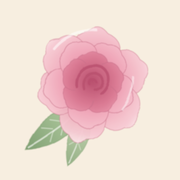
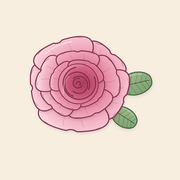
Tallennuspalkki muokkaukseen, reseptin kuvanluku ja uusi ruusukuvake
Claude-Session: https://claude.ai/code/session_01HmwA5S6W5nbvQAGnwA3i5H

Changed region(s): [[0.1389, 0.1389, 0.8611, 0.9167]]

diff --git a/index.html b/index.html
@@ -333,6 +333,8 @@ textarea.let:focus{background:#FFFDF9;border-color:#E3B7C4;box-shadow:none}
 .gear svg{width:21px;height:21px}
 .gear[aria-current="page"]{color:var(--rose-ink);background:var(--rose-soft)}
 .backrow{display:flex}
+.edbar{position:sticky;top:calc(env(safe-area-inset-top,0px) + 8px);z-index:20;display:flex;align-items:center;gap:8px;padding:8px 8px 8px 14px;border:1px solid var(--line);border-radius:14px;background:rgba(255,250,242,.94);-webkit-backdrop-filter:blur(8px);backdrop-filter:blur(8px);box-shadow:0 4px 14px rgba(140,100,70,.12)}
+.edbar .grow{font-family:var(--f-display);font-weight:700;font-size:1.2rem;color:var(--rose-ink);overflow:hidden;text-overflow:ellipsis;white-space:nowrap}
 /* Historia Tarkista-sivulla */
 .hfold .foldh{padding:4px 2px}
 .hfold .htitle{font-family:var(--f-display);font-size:1.45rem;font-weight:700;color:var(--blue);flex:0 0 auto}
@@ -2428,6 +2430,45 @@ Täytä kakku mansikoilla ja kermalla.`;
       renderCheck();
     }
   }
+  /* Reseptin kuva tekstiksi: rivit säilytetään, katkenneet lauseet yhdistetään. Useampi kuva lisätään peräkkäin. */
+  function cleanRecipeOcr(t) {
+    const ls = String(t || '').replace(/\r/g, '').replace(/-\n(?=[a-zäöå])/g, '').split('\n').map(l => l.replace(/[ \t]+/g, ' ').trim()).filter(Boolean);
+    const out = [];
+    ls.forEach(l => {
+      const prev = out[out.length - 1];
+      if (prev && /^[a-zäöå(]/.test(l) && prev.length > 25 && !/[.:!?]$/.test(prev) && !/^[\d½¼¾⅓-]/.test(prev)) out[out.length - 1] = prev + ' ' + l;
+      else out.push(l);
+    });
+    return out.join('\n');
+  }
+  async function ocrRecipe(file, cropped) {
+    const r = S.rin;
+    syncRecipe();
+    let last = Date.now(), wd = null;
+    const prog = (st, p) => { last = Date.now(); const el = $('#rOcrMsg'); if (el) el.textContent = (/load|initial/i.test(st) ? 'Ladataan tekstintunnistusta… ' : 'Luetaan kuvaa… ') + Math.round(p * 100) + ' %'; };
+    r.busy = 'Ladataan tekstintunnistusta…'; r.ocrErr = null; renderRecipe();
+    try {
+      const why = await ocrPreflight();
+      if (why) throw { why };
+      const stall = new Promise((_, rej) => { wd = setInterval(() => { if (Date.now() - last > 45000) rej({ why: 'stall' }); }, 2000); });
+      const work = (async () => { const w = await getWorker(prog); last = Date.now(); const cv = await prepOcr(cropped || file); return w.recognize(cv); })();
+      const res = await Promise.race([work, stall]);
+      clearInterval(wd);
+      const txt = cleanRecipeOcr(res && res.data ? res.data.text : '');
+      r.busy = null;
+      if (!txt || txt.length < 8) { renderRecipe(); toast('Kuvasta ei löytynyt tekstiä. Kuvaa resepti lähempää ja suoraan edestä.'); return; }
+      r.ingDraft = (r.ingDraft && r.ingDraft.trim() ? r.ingDraft.trim() + '\n\n' : '') + txt;
+      renderRecipe();
+      const ta = $('#rIng'); if (ta) { ta.focus({ preventScroll: true }); ta.scrollIntoView({ block: 'center', behavior: 'smooth' }); }
+      toast('Teksti lisätty. Tarkista se, tai lisää seuraava kuva.');
+    } catch (e) {
+      clearInterval(wd);
+      r.busy = null;
+      if (e && e.why === 'stall') { try { if (tessWorker) tessWorker.terminate(); } catch (x) { } tessWorker = null; }
+      r.ocrErr = OCR_WHY[(e && e.why) || ''] || 'tunnistus ei käynnistynyt (' + String((e && e.message) || e || '').slice(0, 80) + ')';
+      renderRecipe();
+    }
+  }
   async function readPhoto(file) {
     const c = S.check;
     const thumb = URL.createObjectURL(file);
@@ -2742,6 +2783,12 @@ Täytä kakku mansikoilla ja kermalla.`;
       <div class="card">
         <label class="flabel" for="rName"><span class="label">Reseptin nimi</span></label>
         <input id="rName" type="text" value="${esc(r.nameDraft || '')}">
+        <div class="iconpick">
+          <label aria-label="Kuvaa resepti" title="Kuvaa resepti">${icon('i-cam')}<input id="rOcrCam" type="file" accept="image/*" capture="environment"></label>
+          <label aria-label="Valitse reseptin kuva" title="Valitse reseptin kuva">${icon('i-img')}<input id="rOcrGal" type="file" accept="image/*"></label>
+        </div>
+        ${r.busy ? `<div class="busy"><div class="spinner"></div><span id="rOcrMsg">${esc(r.busy)}</span></div>` : ''}
+        ${r.ocrErr ? `<p class="note warm" style="font-size:.88rem"><b>Tekstintunnistus ei käynnistynyt:</b> ${esc(r.ocrErr)}. Voit myös liittää reseptin tekstinä.</p>` : ''}
         <label class="flabel" for="rIng"><span class="label">Resepti</span></label>
         <textarea id="rIng" style="min-height:160px">${esc(r.ingDraft || '')}</textarea>
         ${foldHTML('rres', 'Rajaukset', sel.map(x => x[1]), `<div class="chips">${RESTR.map(([k, l]) => `<button class="chip" data-act="rres" data-v="${k}" aria-pressed="${pressed(r.restrictions.includes(k))}">${l}</button>`).join('')}</div>
@@ -3000,6 +3047,7 @@ Täytä kakku mansikoilla ja kermalla.`;
     const selCats = r.categories || [];
     return `
       ${vh(r.mode === 'own' && !r.ingredients.length ? 'Kirjoita oma resepti' : 'Muokkaa reseptiä')}
+      <div class="edbar"><span class="grow">${r.mode === 'own' && !r.ingredients.length ? 'Oma resepti' : 'Muokkaus'}</span><button class="btn ghost small" data-act="ecancel">Peruuta</button><button class="btn primary small" data-act="esave">${icon('i-ok')}Tallenna</button></div>
       <div class="card edit">
         <label><span class="label">Nimi</span><input id="eTitle" type="text" value="${esc(r.title)}"></label>
         <div class="row">
@@ -3699,6 +3747,7 @@ Täytä kakku mansikoilla ja kermalla.`;
   });
   document.addEventListener('change', async e => {
     const id = e.target.id;
+    if ((id === 'rOcrCam' || id === 'rOcrGal') && e.target.files[0]) { syncRecipe(); const f = e.target.files[0]; e.target.value = ''; openCrop(f, cv => ocrRecipe(f, cv)); }
     if ((id === 'camIn' || id === 'galIn') && e.target.files[0]) { syncCheck(); const f = e.target.files[0]; openCrop(f, cv => ocrPhoto(f, cv)); }
     if ((id === 'rCam' || id === 'rGal') && e.target.files[0]) {
       syncRecipe(); const f = e.target.files[0];

diff --git a/sw.js b/sw.js
@@ -1,5 +1,5 @@
 /* Peace: offline-tuki. Sovellus päivittyy verkosta, kun yhteys on; muuten se toimii välimuistista. */
-const VERSION = 'peace-v2';
+const VERSION = 'peace-v3';
 const SHELL = ['./', 'index.html', 'manifest.webmanifest', 'icons/icon-192.png', 'icons/icon-512.png', 'icons/apple-touch-icon.png'];
 const RUNTIME = 'peace-runtime-v1';
 
